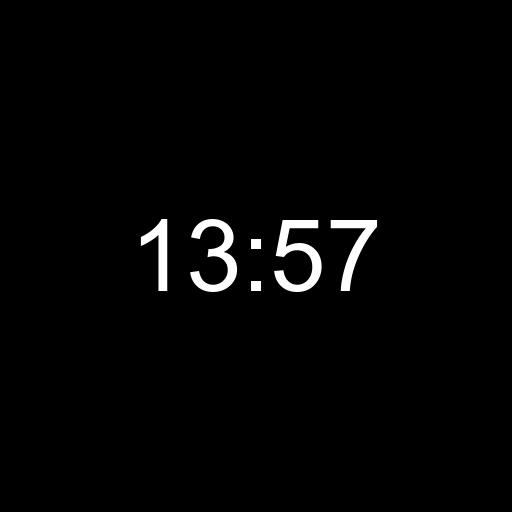
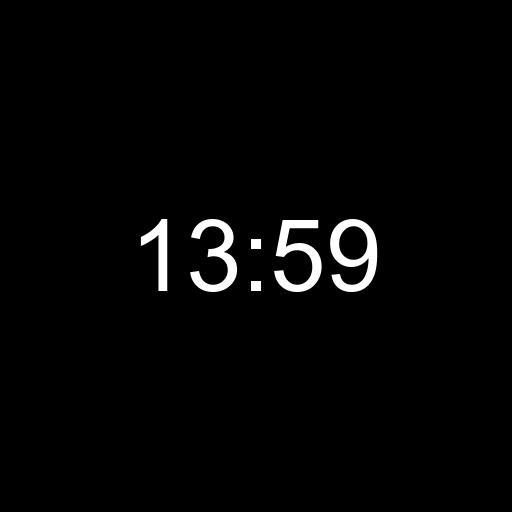
сделал смену аватара для бота

Changed region(s): [[0.625, 0.4062, 0.75, 0.5938]]

diff --git a/update_avatar.py b/update_avatar.py
@@ -1,62 +1,115 @@
-from avatar_generator import generate_avatar
-from dotenv import load_dotenv
+import logging
 import os
 import asyncio
+from avatar_generator import generate_avatar
+from dotenv import load_dotenv
+from telethon.sessions import StringSession
+from telethon.errors import FloodWaitError
+from telethon import TelegramClient, functions
+from telethon.tl.functions.photos import GetUserPhotosRequest, DeletePhotosRequest, UploadProfilePhotoRequest
+import argparse
 
 load_dotenv()
-
-api_id = os.getenv("TG_API_ID")
+api_id = int(os.getenv("TG_API_ID"))
 api_hash = os.getenv("TG_API_HASH")
+session_string = os.getenv("TG_SESSION")
 
-env = os.getenv("PYTHON_ENV", "development")
-session_name = "my-session"
-if env == "production":
-    import shutil
-    secret_path = f"/etc/secrets/{session_name}.session"
-    local_path = f"{session_name}.session"
-    if os.path.exists(secret_path) and (not os.path.exists(local_path) or os.path.getsize(secret_path) != os.path.getsize(local_path)):
-        shutil.copy(secret_path, local_path)
+bot_token = os.getenv("TG_BOT_TOKEN")
 
-async def update_telegram_avatar():
-    if not all([api_id, api_hash]):
-        print("Missing credentials. Skipping avatar update.")
+logging.basicConfig(level=logging.INFO, format='[%(asctime)s] %(levelname)s: %(message)s')
+logger = logging.getLogger(__name__)
+
+async def update_user_avatar():
+    if not all([api_id, api_hash, session_string]):
+        logger.error("Не хватает переменных TG_API_ID, TG_API_HASH или TG_SESSION.")
         return
 
-    from telethon import TelegramClient, functions
-    from telethon.tl.functions.photos import GetUserPhotosRequest, DeletePhotosRequest
-
-    session_path = f"{session_name}.session"
-    if os.path.exists(session_path):
-        print(f"[DEBUG] Session file size: {os.path.getsize(session_path)} bytes")
-    else:
-        print("[DEBUG] Session file NOT FOUND!")
-
     try:
-        async with TelegramClient(session_name, int(api_id), api_hash) as client:
-            await client.connect()
+        async with TelegramClient(
+            StringSession(session_string),
+            api_id,
+            api_hash,
+            device_model="Ubuntu 22.04",
+            system_version="5.15.0",
+            app_version="10.5.0",
+            lang_code="en",
+            system_lang_code="en-US"
+        ) as client:
+
             if not await client.is_user_authorized():
-                print("[DEBUG] Не авторизован, запускаю start()...")
-                await client.start()
-                print("[DEBUG] Авторизация прошла!")
-                print("Жду 60 секунд после авторизации...")
-                await asyncio.sleep(60)
-            else:
-                print("[DEBUG] Уже авторизован, пропускаю start()")
+                logger.error("Сессия не авторизована. Не запускай start(), сгенерируй StringSession локально.")
+                return
 
             image_path = generate_avatar()
-            await client(functions.photos.UploadProfilePhotoRequest(
-                file=await client.upload_file(image_path)
-            ))
-            print("[DEBUG] Новый аватар установлен!")
+            file = await client.upload_file(image_path)
+
+            await client(functions.photos.UploadProfilePhotoRequest(file=file))
+            logger.info("✅ Новый аватар пользователя установлен.")
 
             photos = await client(GetUserPhotosRequest('me', offset=0, max_id=0, limit=10))
             if photos.photos:
-                to_delete = photos.photos[1:]
+                to_delete = photos.photos[1:6]
                 for p in to_delete:
-                    await client(DeletePhotosRequest([p.id]))
-                    print(f"[DEBUG] Удалён старый аватар: {p.id}")
-                    await asyncio.sleep(5)
-                if to_delete:
-                    print(f"Удалено старых аватаров: {len(to_delete)}")
+                    try:
+                        await client(DeletePhotosRequest([p.id]))
+                        logger.info(f"🗑 Удалён старый аватар: {p.id}")
+                        await asyncio.sleep(5)
+                    except FloodWaitError as e:
+                        logger.warning(f"⏳ FloodWait: спим {e.seconds} сек.")
+                        await asyncio.sleep(e.seconds)
+
+    except FloodWaitError as e:
+        logger.error(f"⏳ Global FloodWait: {e.seconds} сек. ожидания.")
+        await asyncio.sleep(e.seconds)
     except Exception as e:
-        print(f"[ERROR] {e}")
+        logger.exception("❌ Произошла ошибка:")
+
+async def update_bot_avatar():
+    if not all([api_id, api_hash, bot_token]):
+        logger.error("Не хватает переменных TG_API_ID, TG_API_HASH или TG_BOT_TOKEN.")
+        return
+    try:
+        client = TelegramClient('bot', api_id, api_hash)
+        await client.start(bot_token=bot_token)
+        async with client:
+            image_path = generate_avatar()
+            file = await client.upload_file(image_path)
+            await client(UploadProfilePhotoRequest(file=file))
+            logger.info("🤖 Новый аватар бота установлен.")
+    except FloodWaitError as e:
+        logger.error(f"⏳ Global FloodWait: {e.seconds} сек. ожидания.")
+        await asyncio.sleep(e.seconds)
+    except Exception as e:
+        logger.exception("❌ Произошла ошибка при смене аватара бота:")
+
+def main():
+    parser = argparse.ArgumentParser(description="Сменить аватар Telegram пользователя или бота.")
+    group = parser.add_mutually_exclusive_group()
+    group.add_argument('--user', action='store_true', help='Сменить аватар пользователя')
+    group.add_argument('--bot', action='store_true', help='Сменить аватар бота')
+    args = parser.parse_args()
+
+    if args.user:
+        asyncio.run(update_user_avatar())
+    elif args.bot:
+        asyncio.run(update_bot_avatar())
+    else:
+        # Меню, если аргументы не переданы
+        while True:
+            print("\nВыберите действие:")
+            print("1. Изменить аватар пользователя")
+            print("2. Изменить аватар бота")
+            print("3. Выход")
+            choice = input("Введите номер опции: ").strip()
+            if choice == '1':
+                asyncio.run(update_user_avatar())
+            elif choice == '2':
+                asyncio.run(update_bot_avatar())
+            elif choice == '3':
+                print("Выход.")
+                break
+            else:
+                print("Некорректный ввод. Попробуйте снова.")
+
+if __name__ == "__main__":
+    main()

diff --git a/main.py b/main.py
@@ -1,13 +1,21 @@
-from fastapi import FastAPI
+from fastapi import FastAPI, Query
 from contextlib import asynccontextmanager
 from apscheduler.schedulers.asyncio import AsyncIOScheduler
-from update_avatar import update_telegram_avatar
+from update_avatar import update_user_avatar, update_bot_avatar
+import asyncio
 
 scheduler = AsyncIOScheduler()
 
+def schedule_avatar_update(target: str):
+    if target == "user":
+        asyncio.create_task(update_user_avatar())
+    elif target == "bot":
+        asyncio.create_task(update_bot_avatar())
+
 @asynccontextmanager
 async def lifespan(app: FastAPI):
-    scheduler.add_job(update_telegram_avatar, 'interval', minutes=5)
+    # scheduler.add_job(lambda: schedule_avatar_update("user"), 'interval', minutes=5)
+    # scheduler.add_job(lambda: schedule_avatar_update("bot"), 'interval', minutes=5)
     scheduler.start()
     yield
     scheduler.shutdown()
@@ -15,6 +23,12 @@ async def lifespan(app: FastAPI):
 app = FastAPI(lifespan=lifespan)
 
 @app.post("/update-avatar")
-async def update_avatar():
-    await update_telegram_avatar()
-    return {"status": "Avatar updated"}
+async def update_avatar(target: str = Query("bot", enum=["user", "bot"])):
+    print(f"API вызван с target={target}")
+    if target == "user":
+        print("Вызов смены аватара пользователя")
+        await update_user_avatar()
+    elif target == "bot":
+        print("Вызов смены аватара бота")
+        await update_bot_avatar()
+    return {"status": f"Avatar updated for {target}"}

diff --git a/generate_session.py b/generate_session.py
@@ -1,0 +1,12 @@
+from telethon.sync import TelegramClient
+from telethon.sessions import StringSession
+from dotenv import load_dotenv
+import os
+
+load_dotenv()
+api_id = int(os.getenv("TG_API_ID"))
+api_hash = os.getenv("TG_API_HASH")
+
+with TelegramClient(StringSession(), api_id, api_hash) as client:
+    print("Your session string:")
+    print(client.session.save())
